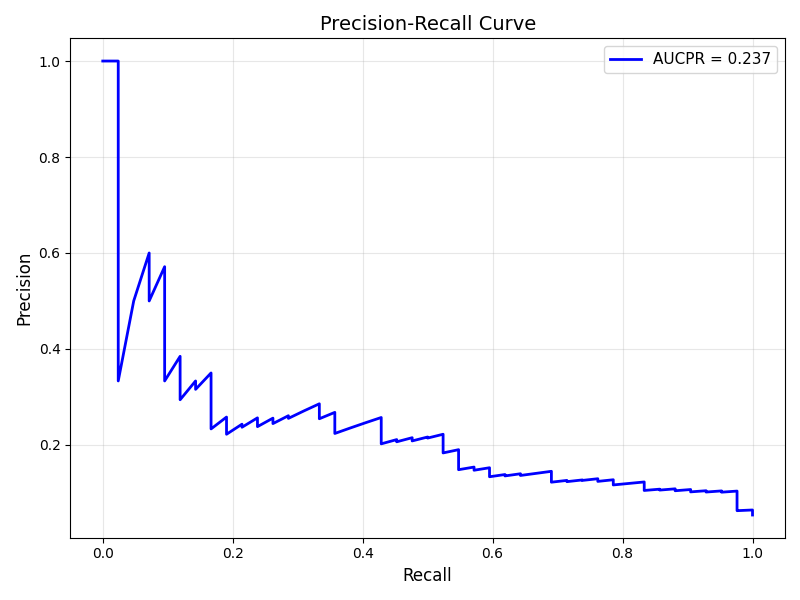
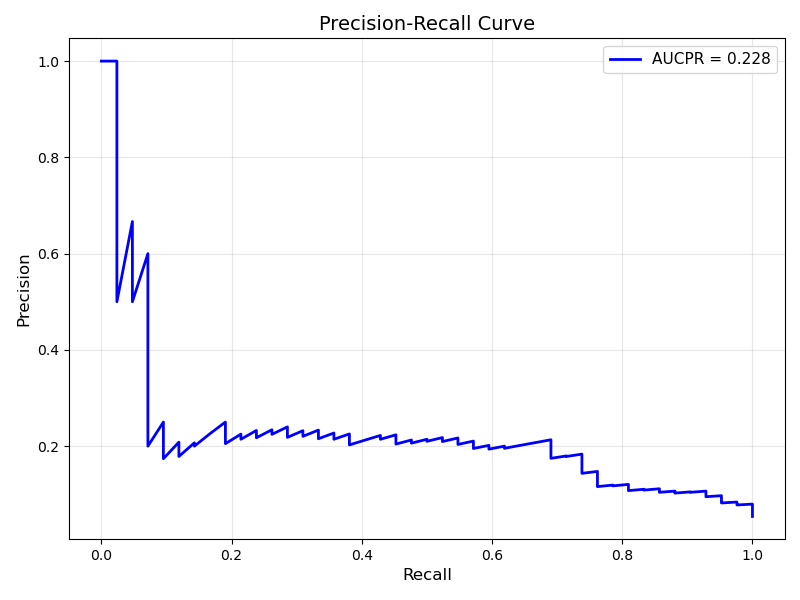
plot

diff --git a/Part3/src/h2oStroke2.py b/Part3/src/h2oStroke2.py
@@ -78,9 +78,9 @@ print(f"Totals: No Stroke (0): {totalnostroke}, Stroke (1): {totalstroke}")
 
 # Define the hyperparameter search space
 hyper_params = {
-    'max_depth': [6, 7, 8],
+    'max_depth': [8],
     'learn_rate': [0.03],
-    'ntrees': [200, 300, 400, 500, 600],
+    'ntrees': [200],
     'sample_rate': [0.7],
     'col_sample_rate': [0.9],
     'min_rows': [2]
@@ -157,7 +157,7 @@ for model in grid_perf.models:
 import matplotlib.pyplot as plt
 sorted_data = sorted(zip(n_trees_list, train_aucpr_list, valid_aucpr_list, test_aucpr_list))
 n_trees_sorted, train_sorted, valid_sorted, test_sorted = zip(*sorted_data)
-
+'''
 # Plot AUCPR vs Number of Trees
 plt.figure(figsize=(10, 6))
 plt.plot(n_trees_sorted, train_sorted, marker='o', label='Train AUCPR', linewidth=2)
@@ -172,7 +172,7 @@ plt.tight_layout()
 #plt.savefig('aucpr_vs_minRows.png', dpi=300)
 #print("\nPlot saved as 'aucpr_vs_ntrees.png'")
 #plt.show()
-
+'''
 # --- 6. MODEL EVALUATION AND SELECTION ---
 
 # Get the grid results and sort by AUC (Area Under the Curve)
@@ -186,7 +186,7 @@ best_gbm = grid_perf.models[0]
 # Evaluate the best model on the unseen test set
 performance = best_gbm.model_performance(test_data=test)
 
-'''
+
 predictions = best_gbm.predict(test)
 pred_df = predictions.as_data_frame()
 actual_df = test[y].as_data_frame()
@@ -211,7 +211,28 @@ plt.grid(True, alpha=0.3)
 plt.tight_layout()
 plt.savefig('simple_aucpr.png')
 plt.show()
-'''
+
+from sklearn.metrics import roc_curve, auc
+
+# Get predictions and actual values (you already have these)
+y_true = actual_df[y].values
+y_scores = pred_df['p1'].values
+
+# Calculate ROC curve
+fpr, tpr, roc_thresholds = roc_curve(y_true, y_scores)
+roc_auc = auc(fpr, tpr)
+
+# Plot ROC curve
+plt.figure(figsize=(8, 6))
+plt.plot(fpr, tpr, 'b-', linewidth=2, label=f'ROC AUC = {roc_auc:.3f}')
+plt.xlabel('False Positive Rate', fontsize=12)
+plt.ylabel('True Positive Rate', fontsize=12)
+plt.title('ROC Curve', fontsize=14)
+plt.legend(fontsize=11)
+plt.grid(True, alpha=0.3)
+plt.tight_layout()
+plt.savefig('roc_curve.png')
+plt.show()
 
 # --- 6. MODEL EVALUATION AND SELECTION (Continued) ---
 # Print final results
